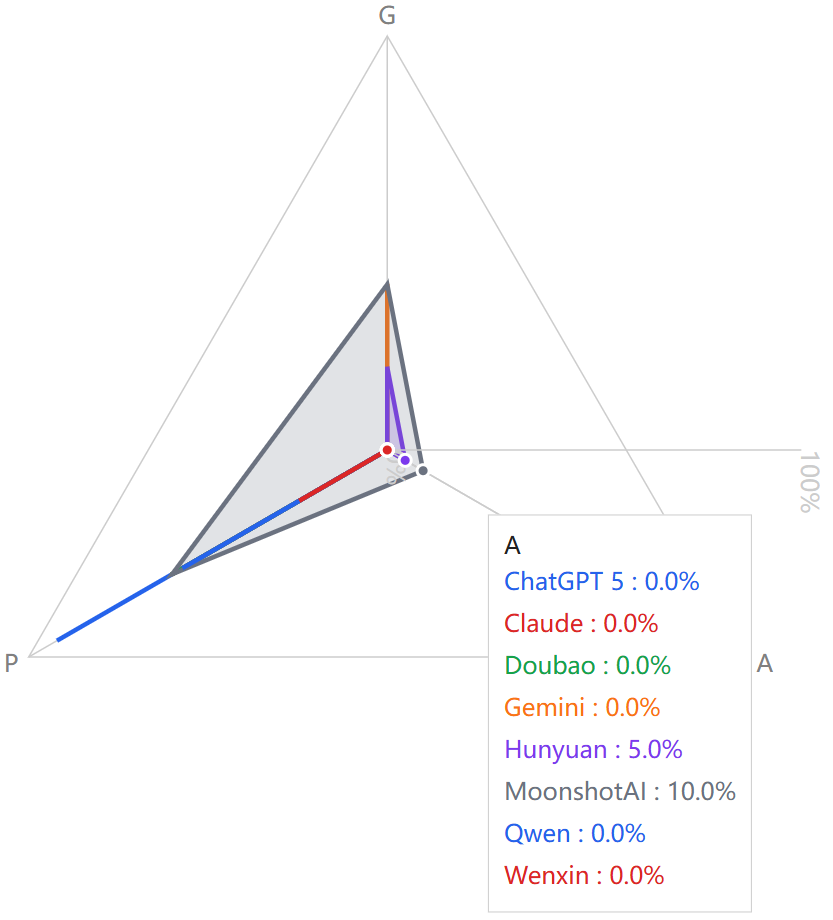
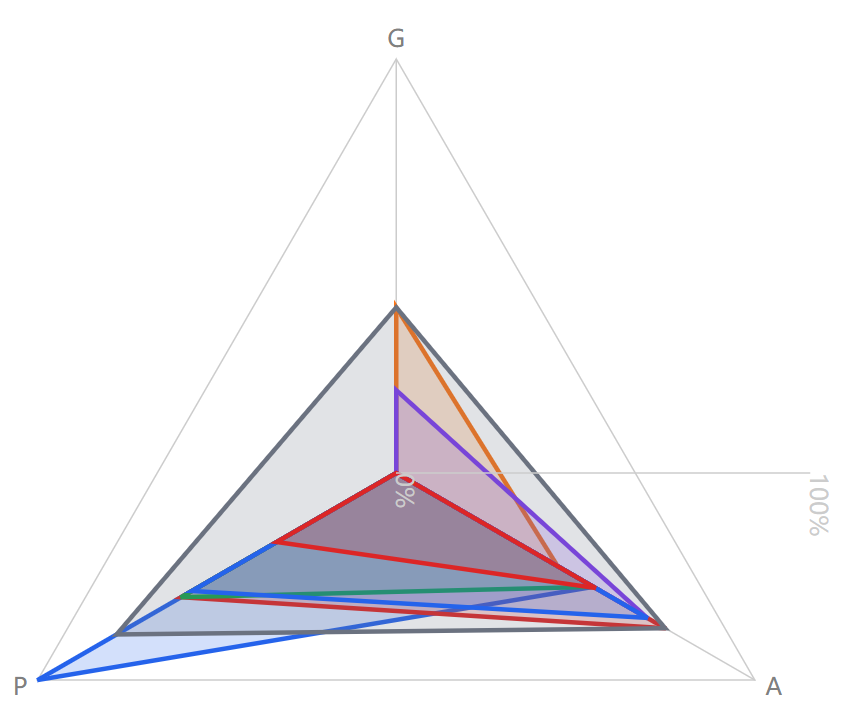
[release]1.8.0 update README

diff --git a/frontend/src/components/report/StackedBarChartPanel.tsx b/frontend/src/components/report/StackedBarChartPanel.tsx
@@ -69,24 +69,23 @@ export const StackedBarChartPanel: React.FC<Props> = ({ metricsBySystem }) => {
                             }}
                         />
                         <Legend />
-                        {/* 颜色与雷达图保持强对比：蓝（G）、橙（A）、绿（P） */}
                         <Bar
                             dataKey="G"
                             name="G contribution"
                             stackId="score"
-                            fill="#2563EB"
+                            fill="#FFB3B3"
                         />
                         <Bar
                             dataKey="A"
                             name="A contribution"
                             stackId="score"
-                            fill="#F97316"
+                            fill="#66B5FF"
                         />
                         <Bar
                             dataKey="P"
                             name="P contribution"
                             stackId="score"
-                            fill="#16A34A"
+                            fill="#0067C8"
                         />
                     </BarChart>
                 </ResponsiveContainer>

diff --git a/README.md b/README.md
@@ -1,12 +1,18 @@
 # GAP
-GAP System, designed for MRAG-Bench.
+GAP System, designed for Assessing MLLMs Reliability on Engineering Formula Reasoning.
 
-# Evaluation Metrics
-| System   | Total Samples | Ground Formula (G) | Answer Accuracy (A) | Provenance Accuracy (P) | Overall Score |
-| :------- | :------------ | :----------------- | :------------------ | :---------------------- | :------------ |
-| Deepseek | 1             | 100.00%            | 100.00%             | 0.00%                   | 70.00%        |
-| GPT-4o   | 2             | 50.00%             | 100.00%             | 80.00%                  | 79.00%        |
-| GPT-5    | 2             | 0.00%              | 100.00%             | 100.00%                 | 70.00%        |
+## Workflow
+![GAP Overview Framework](example/GAP%20Overview%20Framework.png)
+![GAP System Architecture](example/GAP%20System%20Architecture.png)
+## Dataset
+[PDFs](example/Questions)
 
-# Example
-![GAP Radar Chart](example/GAP%20Radar%20Chart.png)
+## Prompt
+![GAP metrics.csv](example/prompt.txt)
+
+## Result
+![GAP metrics.csv](example/Results/gap-metrics.csv)
+
+![GAP Stacked Bar Chart](example/Results/GAP%20Stacked%20Bar%20Chart.png)
+
+![GAP Radar Chart](example/Results/GAP%20Radar%20Chart.png)
